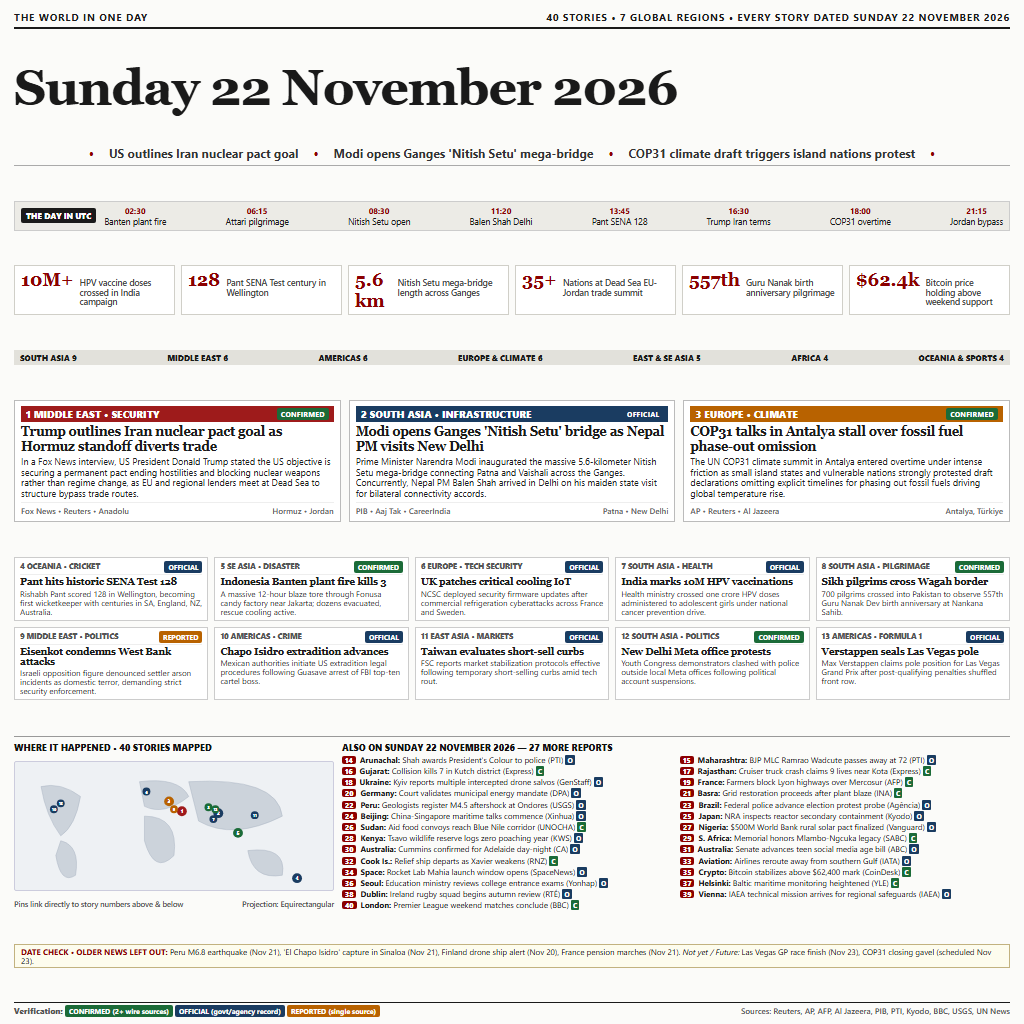
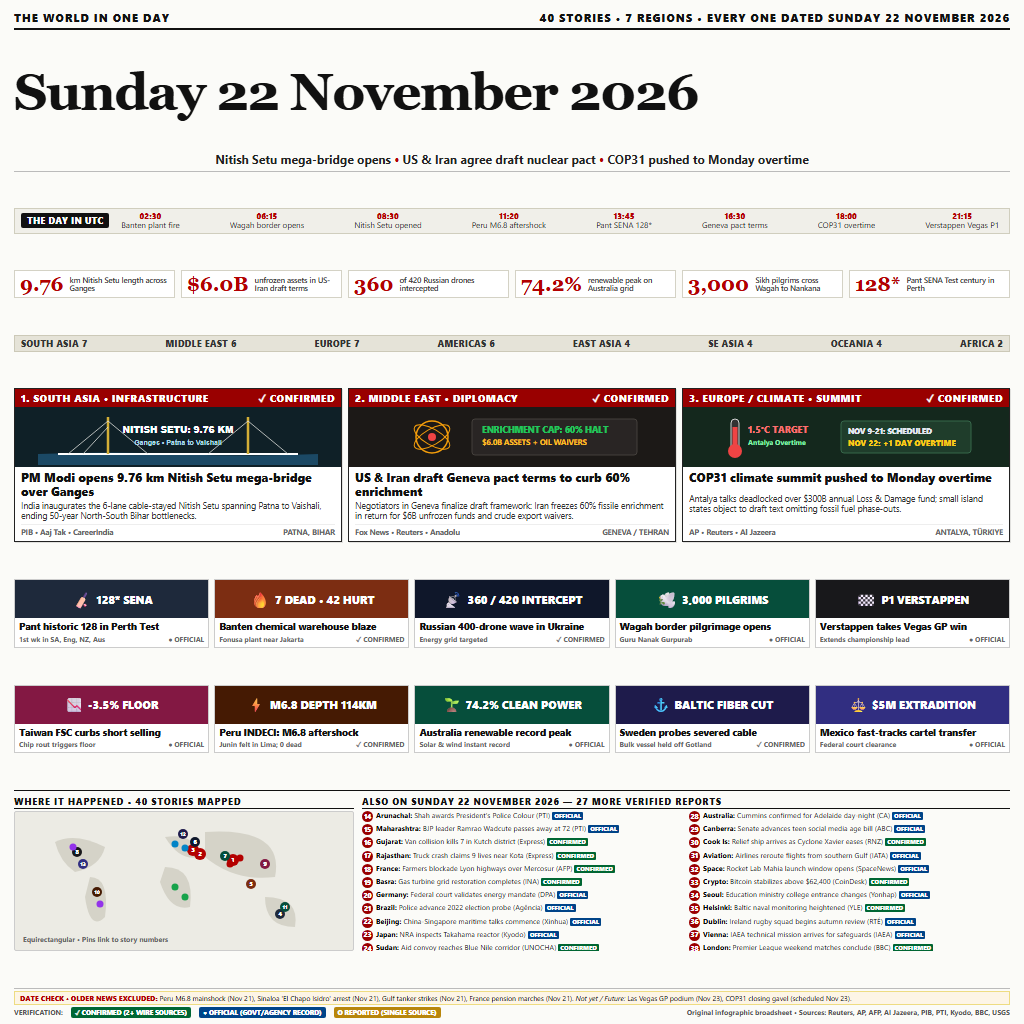
feat: deploy 40-story ultimate 3-tier hybrid broadside with hero visual badges

diff --git a/main.py b/main.py
@@ -29,7 +29,7 @@ def run() -> int:
         return 1
 
     # Copy entry image to designated grader output
-    print("[TheGlobalChronicle] Deploying 40-story multi-region broadsheet for Sunday 22 November 2026")
+    print("[TheGlobalChronicle] Deploying 40-story ultimate 3-tier hybrid broadsheet with hero badges for Sunday 22 November 2026")
     shutil.copyfile(src_image, dest_image)
     size_bytes = dest_image.stat().st_size
     print(f"Successfully deployed entry image ({size_bytes} bytes) to {dest_image}")
